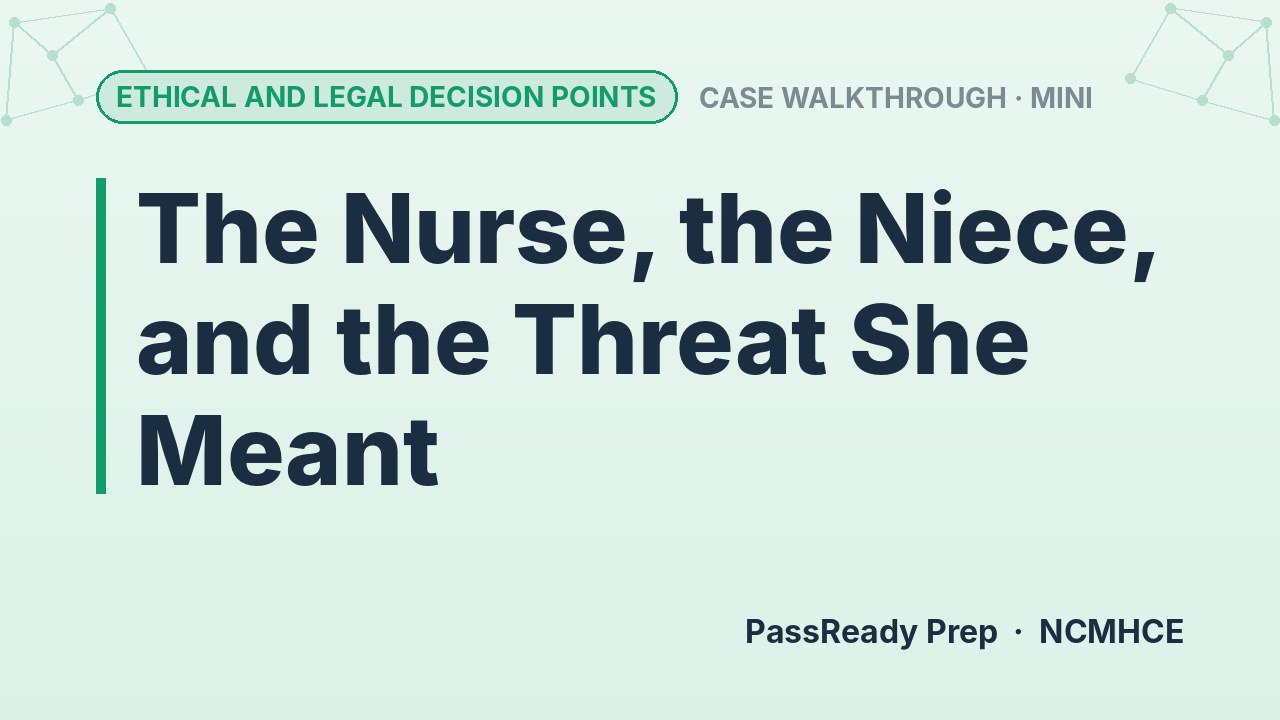
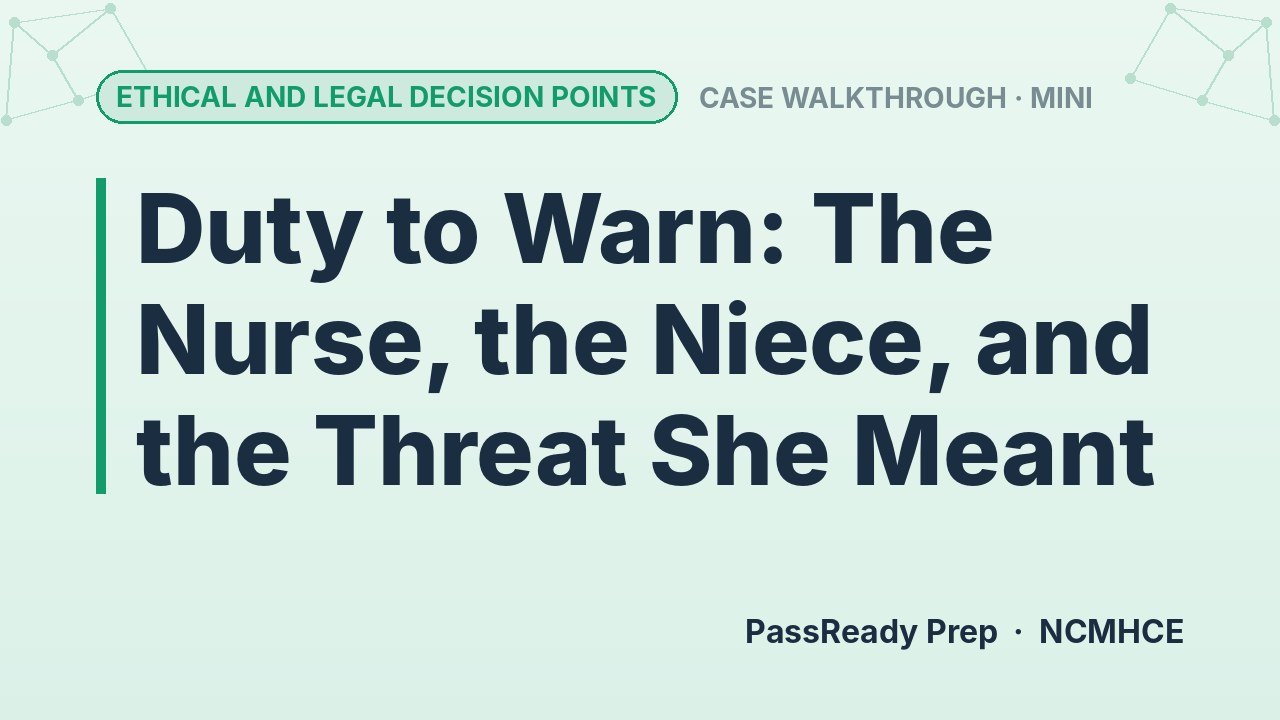
Thumbnails parse the diagnosis-first titles; regenerate all 28
make-thumbnails.py now reads the new title scheme (and still the old
one), so full cases and minis render as 'Diagnosis: hook' and practice
thumbnails keep the big question with the diagnosis on the topic line.

Changed region(s): [[0.0938, 0.2444, 0.9062, 0.3972], [0.0938, 0.55, 0.9062, 0.6722], [0.0938, 0.3972, 0.9062, 0.55]]

diff --git a/tools/youtube/make-thumbnails.py b/tools/youtube/make-thumbnails.py
@@ -174,15 +174,28 @@ def make(sheet, overrides):
     # Main text, beside a green accent bar.
     top = 170
     if sheet['kind'] == 'practice':
-        m = re.match(r'NCMHCE Practice:\s*(.+?)\s*\|\s*(.+)$', title)
-        question, topic = (m.group(1), m.group(2)) if m else (title, '')
+        # Diagnosis-first titles: "<Dx> NCMHCE Practice: <question> | <vignette>"
+        # (vignette optional); older sheets: "NCMHCE Practice: <question> | <vignette>".
+        m = re.match(r'(?:(.+?)\s+)?NCMHCE Practice:\s*(.+?)(?:\s*\|\s*(.+))?$', title)
+        if m:
+            dx, question, vignette = m.group(1) or '', m.group(2), m.group(3) or ''
+            topic = f'{dx} — {vignette}' if dx and vignette else (vignette or dx)
+        else:
+            question, topic = title, ''
         fq, ql, _ = fit(d, question, 'ExtraBold', width, 2, range(118, 70, -4))
         y = draw_lines(d, left + 40, top, ql, fq, NAVY, highlight={'FIRST', 'NEXT'})
         ft, tl, _ = fit(d, topic, 'SemiBold', width, 3, range(56, 34, -2))
         end = draw_lines(d, left + 40, y + 24, tl, ft, NAVY, gap=1.22)
     else:
-        subject = re.sub(r'^NCMHCE (Full Case Walkthrough|Case Walkthrough \(Mini\)):\s*', '', title)
-        subject = re.sub(r'\s*\(Part \d of \d\)\s*$', '', subject)
+        # Diagnosis-first titles: "<Dx> NCMHCE Case Walkthrough — Full Case, Part N | <hook>"
+        # and "<Dx> NCMHCE (Mini )Case: <story>"; older sheets keep the NCMHCE-first wording.
+        m = (re.match(r'(.+?)\s+NCMHCE Case Walkthrough — Full Case, Part \d\s*\|\s*(.+)$', title)
+             or re.match(r'(.+?)\s+NCMHCE (?:Mini )?Case:\s*(.+)$', title))
+        if m:
+            subject = f'{m.group(1)}: {m.group(2)}'
+        else:
+            subject = re.sub(r'^NCMHCE (Full Case Walkthrough|Case Walkthrough \(Mini\)):\s*', '', title)
+            subject = re.sub(r'\s*\(Part \d of \d\)\s*$', '', subject)
         subject = subject[:1].upper() + subject[1:]
         fs, sl, size = fit(d, subject, 'ExtraBold', width, 3, range(96, 60, -4))
         if size == 64 and len(sl) == 3 and sl[-1].endswith('…'):
